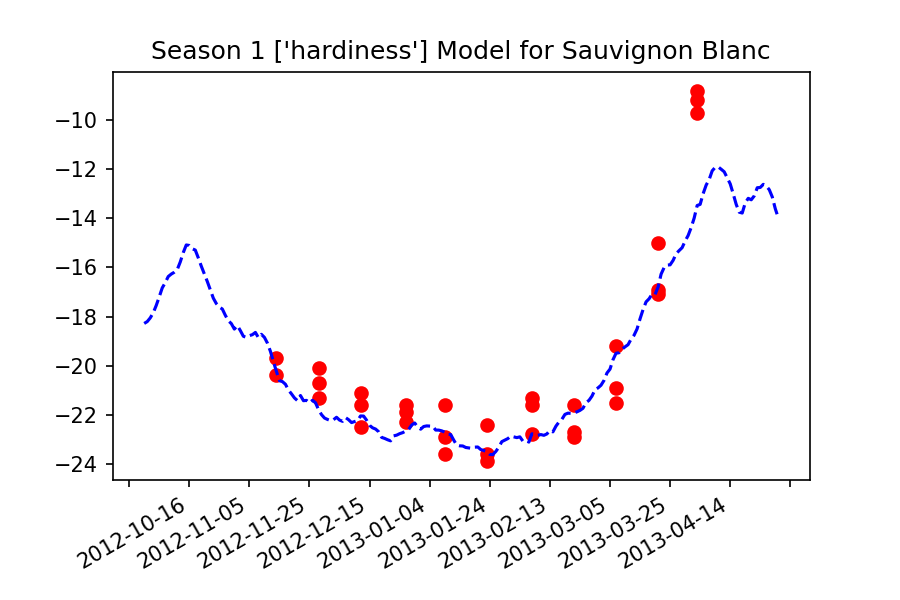
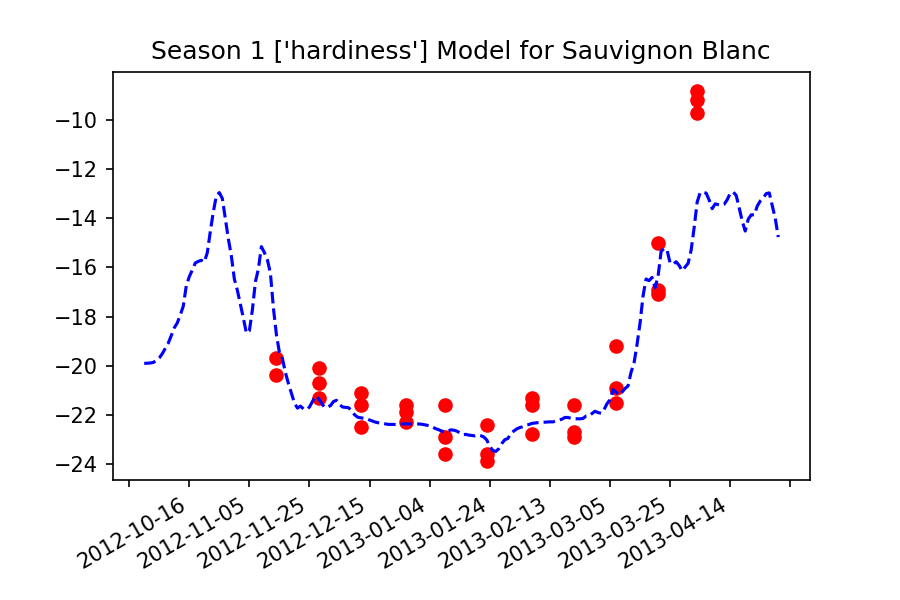
Updating readme

diff --git a/ML/SVR_sauv_blanc_all_sites.py b/ML/SVR_sauv_blanc_all_sites.py
@@ -144,7 +144,7 @@ if __name__ == "__main__":
     
     # pick any columns in data to play with and check fit
     # CHANGE ME IF YOU WANT
-    predictors =  ["tmax_avg_14", "temp_swing_cumulative_14", "sunlight_14_total"]
+    predictors =  ["tmax_avg_14"]
 
     # CHANGE ME IF YOU WANT
     target = ["hardiness"]

diff --git a/ML/SVR_sauv_blanc_oliver_east.py b/ML/SVR_sauv_blanc_oliver_east.py
@@ -156,7 +156,7 @@ if __name__ == "__main__":
     
     # pick any columns in data to play with and check fit
     # CHANGE ME IF YOU WANT
-    predictors =  ["tmax_avg_14", "temp_swing_cumulative_14", "sunlight_14_total"]
+    predictors =  ["tmax_avg_14"]
 
     # CHANGE ME IF YOU WANT
     target = ["hardiness"]

diff --git a/README.md b/README.md
@@ -32,6 +32,19 @@ Predicting grapevine cold hardiness in the Okanagan Valley, BC.
 * Location for all future bayesian modeling
 
 # ./ML
+
+* SVR_sauv_blanc_all_sites.py
+    - Trained SVR with an 'rbf' kernel
+    - model tries to predict the true hardiness of a grapevine given the average temperature from the previous 14 days 
+    - data was split into a test and train set
+        - Test: Seasons 3 and 6 (2014-2015 and 2017-2018)
+        - Train: Seasons 1, 2, 4, 5, 7
+    - data is completely pooled by site 
+    - model input is average maximum temperature of the previous 14 days
+    
+* SVR_sauv_blanc_oliver_east.py
+    - Same model and setup as the SVR file above, but this was trained and tested on data only from Oliver, East
+
 ## SVR Results
 ### Validation Years
 <img src="viz/ML_predictions/SVR_3.png" alt="climate_bc" width="800">
@@ -42,10 +55,6 @@ Predicting grapevine cold hardiness in the Okanagan Valley, BC.
 <img src="viz/ML_predictions/SVR_2.png" alt="climate_bc" width="800">
 <img src="viz/ML_predictions/SVR_4.png" alt="climate_bc" width="800">
 <img src="viz/ML_predictions/SVR_7.png" alt="climate_bc" width="800">
-
-# Considerations up for Conversation
-
-1. imputing for weather and not for hardiness
 
 # Cleaning, Manipulation, etc. order
 
@@ -71,9 +80,5 @@ Cygwin query: ``` for year in `seq 2012 2022`;do for month in `seq 1 1`;do wget 
 # Approaches
 
 ## ML 
-
-Good tutorials for RNN & correlation analysis:
-* https://github.com/anujdutt9/Feature-Selection-for-Machine-Learning/blob/master/Filter%20Methods/Correlation.ipynb
-* https://github.com/tirthajyoti/Deep-learning-with-Python/blob/master/Notebooks/Weather-RNN.ipynb
 
 ## Bayesian
